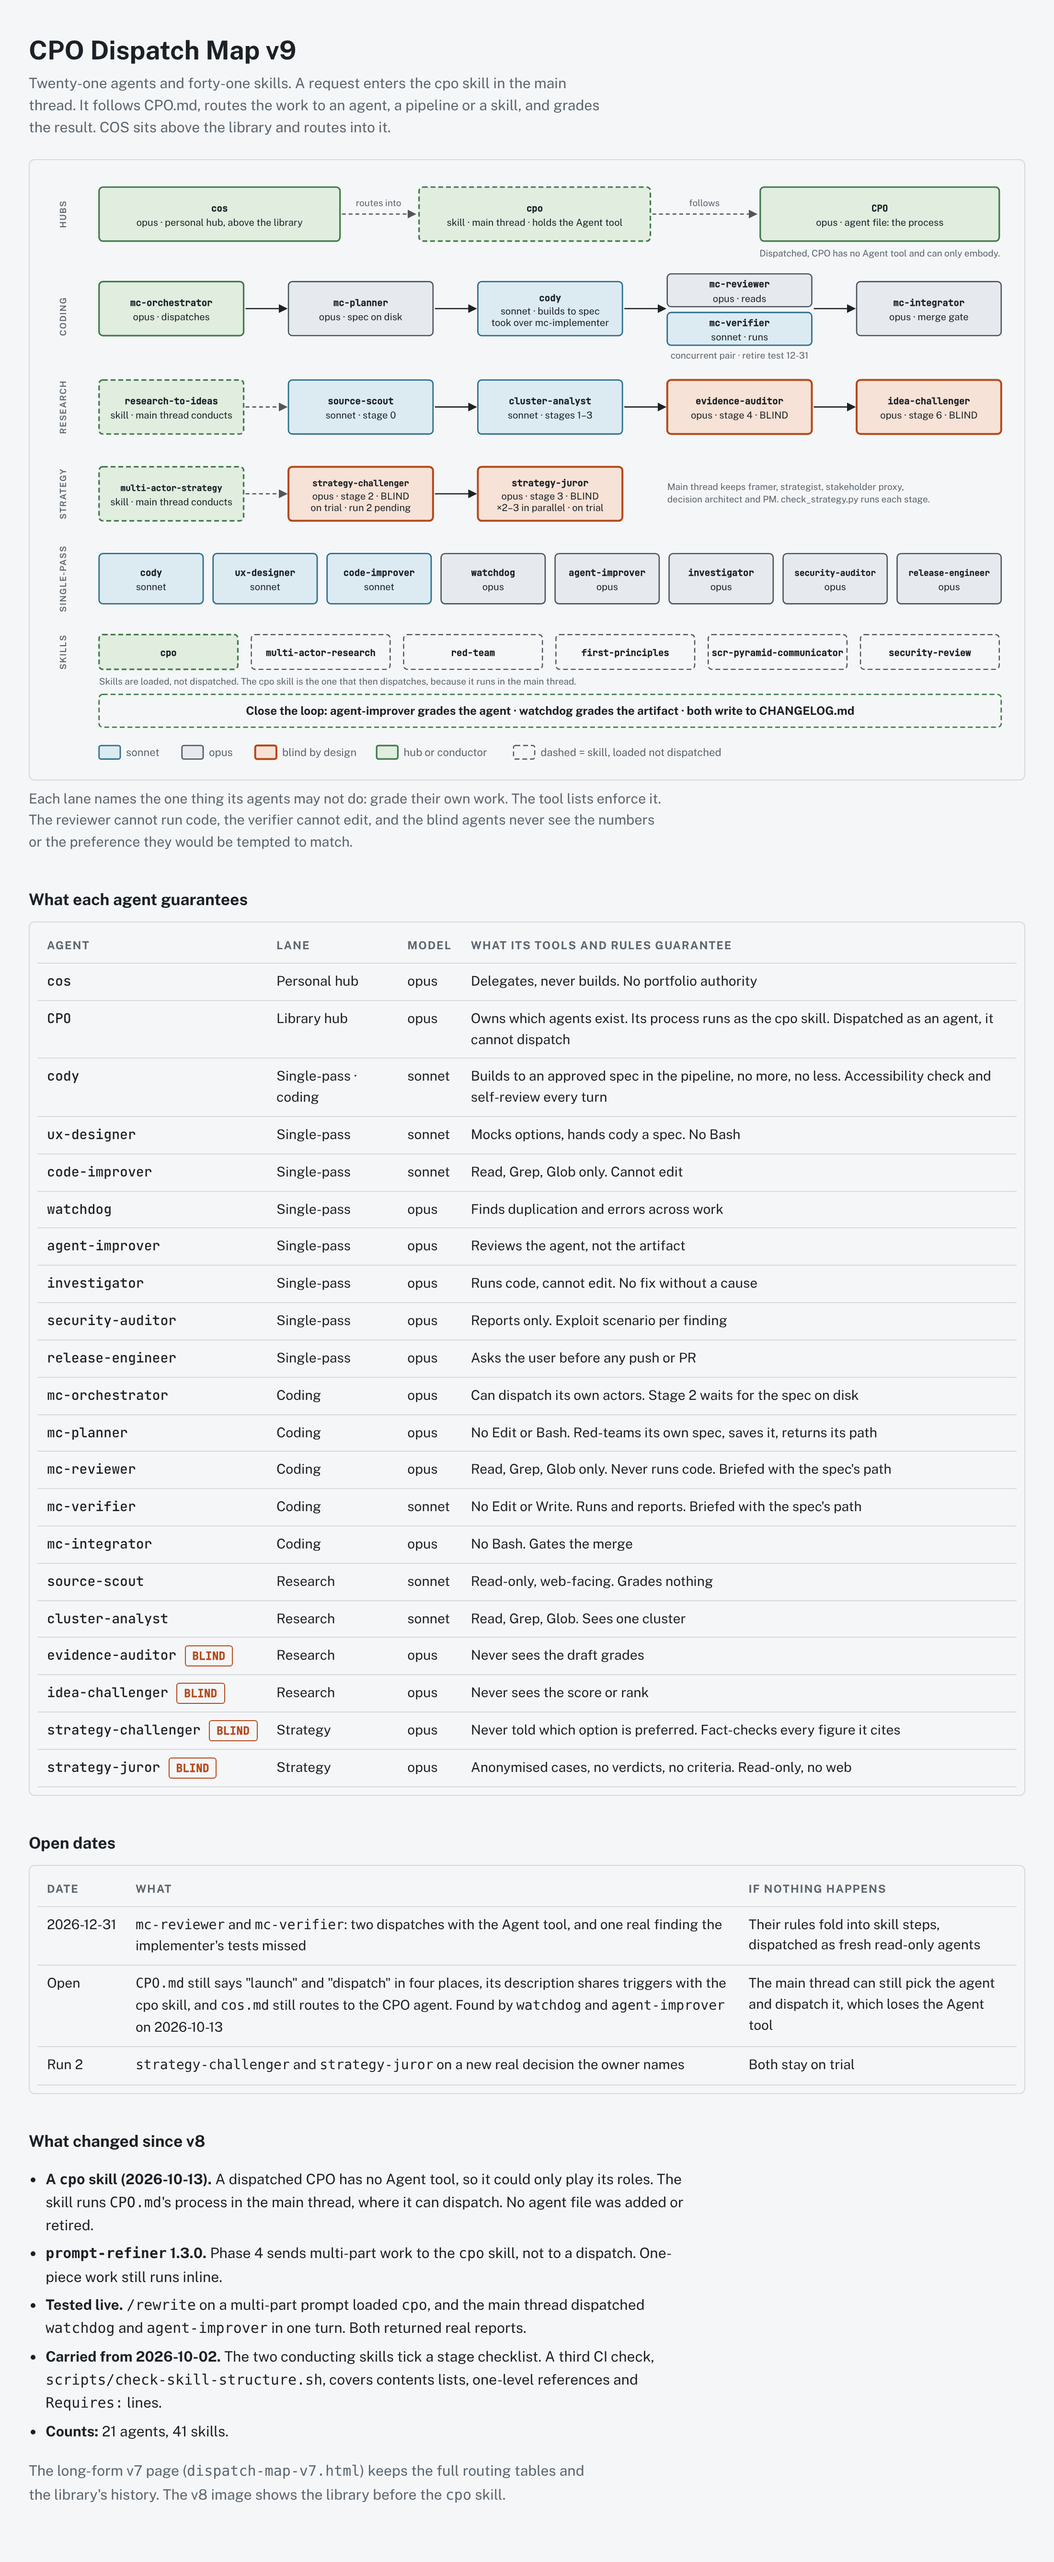
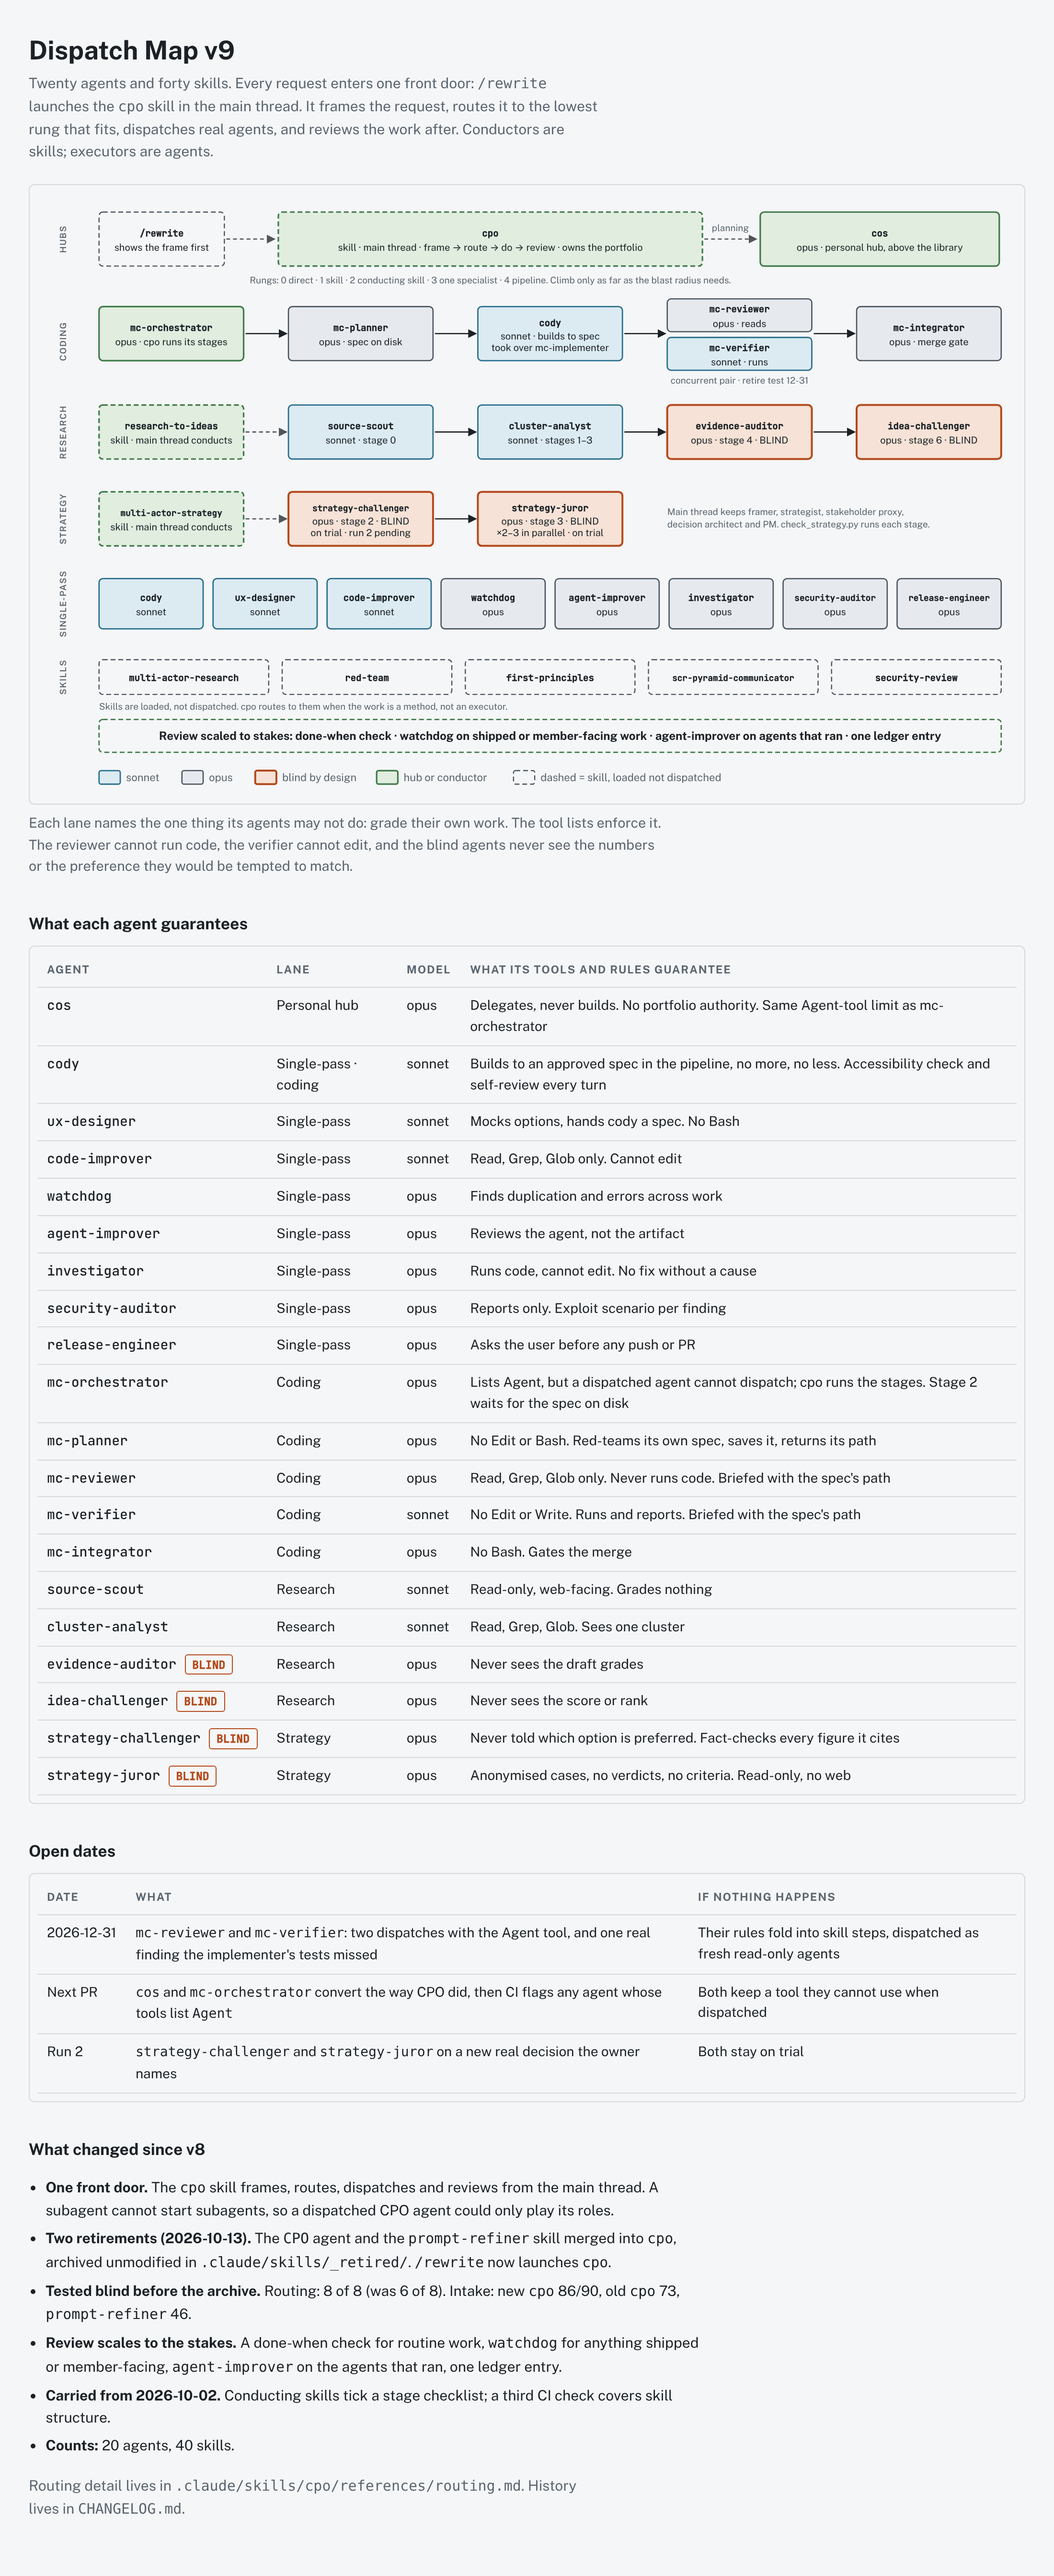
Redraw dispatch map v9 after the cpo redesign (step 5 of 5)
/rewrite launches the cpo skill as the one front door; the CPO agent and
prompt-refiner are gone; 20 agents, 40 skills; review scaled to stakes;
cos and mc-orchestrator conversion as the next open item. PNG only.

Claude-Session: https://claude.ai/code/session_017TRSfpZnpSArnGb2hBfdic

diff --git a/workflows/README.md b/workflows/README.md
@@ -4,8 +4,8 @@ One-page images of how the library's agents and skills fit together.
 
 | Image | Shows | Status |
 |---|---|---|
-| `dispatch-map-v9.png` | The 21 agents and 41 skills: hubs (with the new `cpo` skill), coding, research and strategy lanes, single-pass specialists, skills, open dates | Current |
-| `dispatch-map-v8.png` | The 21 agents before the `cpo` skill | Superseded by v9 |
+| `dispatch-map-v9.png` | The 20 agents and 40 skills after the 2026-10-13 redesign: `/rewrite` → the `cpo` skill as the one front door, the five rungs, the lanes, review scaled to stakes, open dates | Current |
+| `dispatch-map-v8.png` | The 21 agents with the `CPO` agent as hub, before the `cpo` skill | Superseded by v9 |
 | `dispatch-map-v7.png` | The 20 agents as of 2026-09-29, before the strategy lane and the `mc-implementer` fold | Superseded by v8 |
 | `research-to-ideas-map.png` | The `research-to-ideas` pipeline: stages, agents, who sees what | Current |
 | `multi-actor-strategy-map.png` | The agent design for `multi-actor-strategy`: blind challenger and jurors, a checker script, a rollout plan | Run 1 done; both agents on trial for run 2 |
